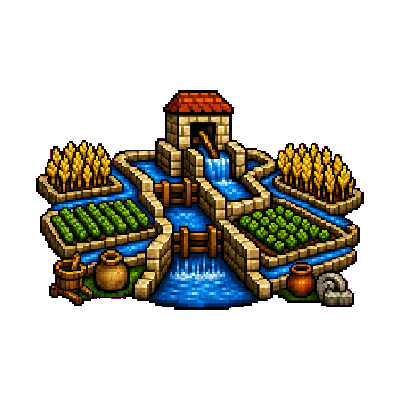
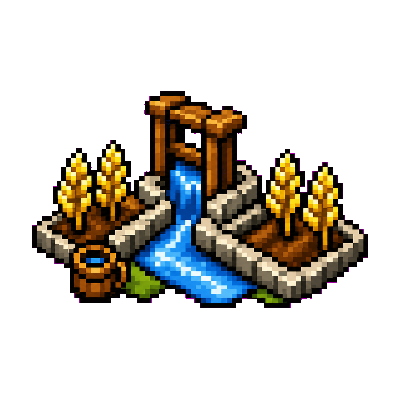
fixes

diff --git a/src/components/ui/drawer/drawer.tsx b/src/components/ui/drawer/drawer.tsx
@@ -152,10 +152,10 @@ const drawerContentVariants = tv({
     "group/drawer",
     "relative",
     "z-[calc(50+var(--layer-index,0))]",
-    "max-h-[98svh] w-full",
-    "max-sm:h-auto max-sm:max-h-[calc(100svh-env(safe-area-inset-top,0)-var(--drawer-image-overflow))] max-sm:shrink-0",
+    "max-h-[92svh] w-full",
+    "max-sm:h-auto max-sm:max-h-[calc(92svh-env(safe-area-inset-top,0)-var(--drawer-image-overflow))] max-sm:shrink-0",
     "max-sm:has-data-[slot=drawer-media]:overflow-visible",
-    "has-data-[slot=dialog-image]:max-h-[min(100svh,calc(100svh-var(--drawer-image-overflow)-env(safe-area-inset-top,0px)-env(safe-area-inset-bottom,0px)))]",
+    "has-data-[slot=dialog-image]:max-h-[min(92svh,calc(92svh-var(--drawer-image-overflow)-env(safe-area-inset-top,0px)-env(safe-area-inset-bottom,0px)))]",
     "-mb-(--bleed) pb-[calc(0+env(safe-area-inset-bottom,0)+var(--bleed))]",
     "max-sm:mb-0 max-sm:pb-(--bottom-nav-height)",
     "border-4 border-primary bg-popover",
@@ -360,7 +360,7 @@ export const DrawerHeader = (props: DrawerHeaderProps) => {
     <ark.div
       className={cn(
         "flex shrink-0 flex-col gap-1 text-center",
-        "mt-4 p-(--space) pt-0 sm:mt-8",
+        "mt-2 p-(--space) pt-0",
         "in-[[data-slot=drawer-content]:has([data-slot=drawer-body])]:pb-3",
         className
       )}
@@ -420,7 +420,7 @@ interface DrawerBodyProps extends React.ComponentProps<typeof ark.div> {
 }
 
 export const DrawerBody = (props: DrawerBodyProps) => {
-  const { scrollFade = false, className, ...rest } = props;
+  const { scrollFade = true, className, ...rest } = props;
 
   return (
     <ScrollArea className="min-h-0 flex-1" scrollFade={scrollFade}>

diff --git a/src/components/ui/scroll-area/scroll-area.tsx b/src/components/ui/scroll-area/scroll-area.tsx
@@ -32,7 +32,7 @@ const scrollAreaVariants = tv({
     },
   },
   defaultVariants: {
-    scrollFade: true,
+    scrollFade: false,
   },
 });
 